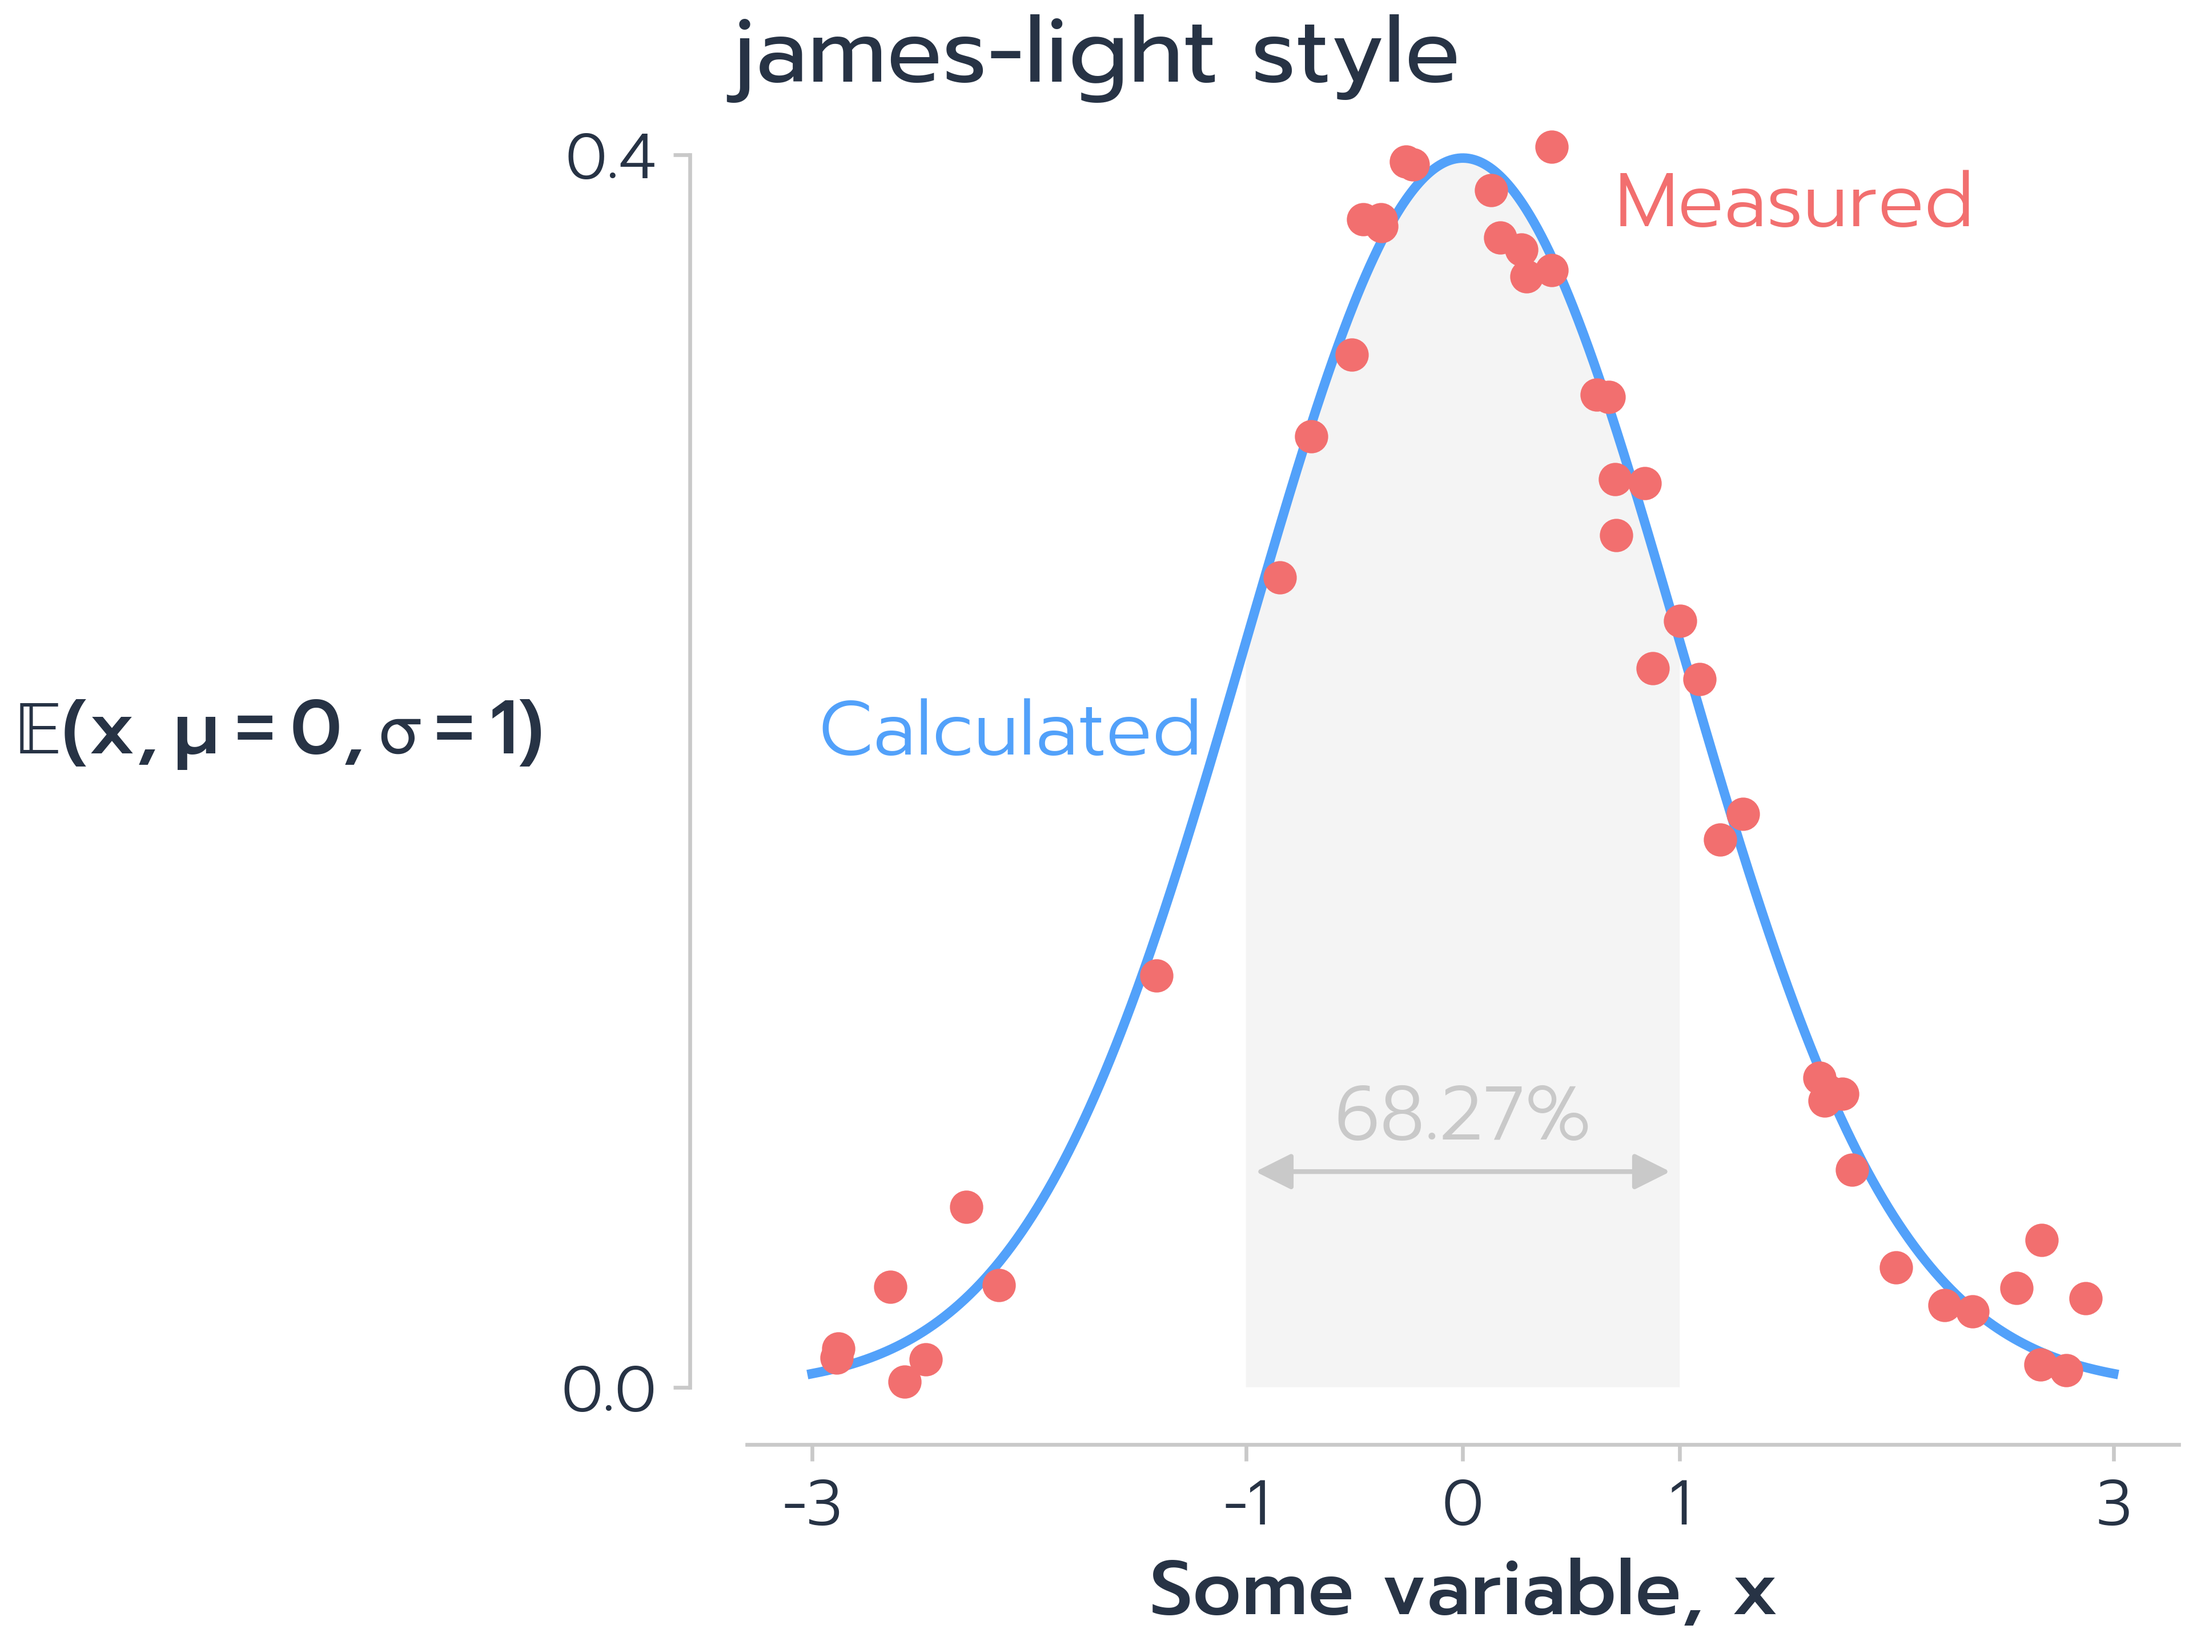
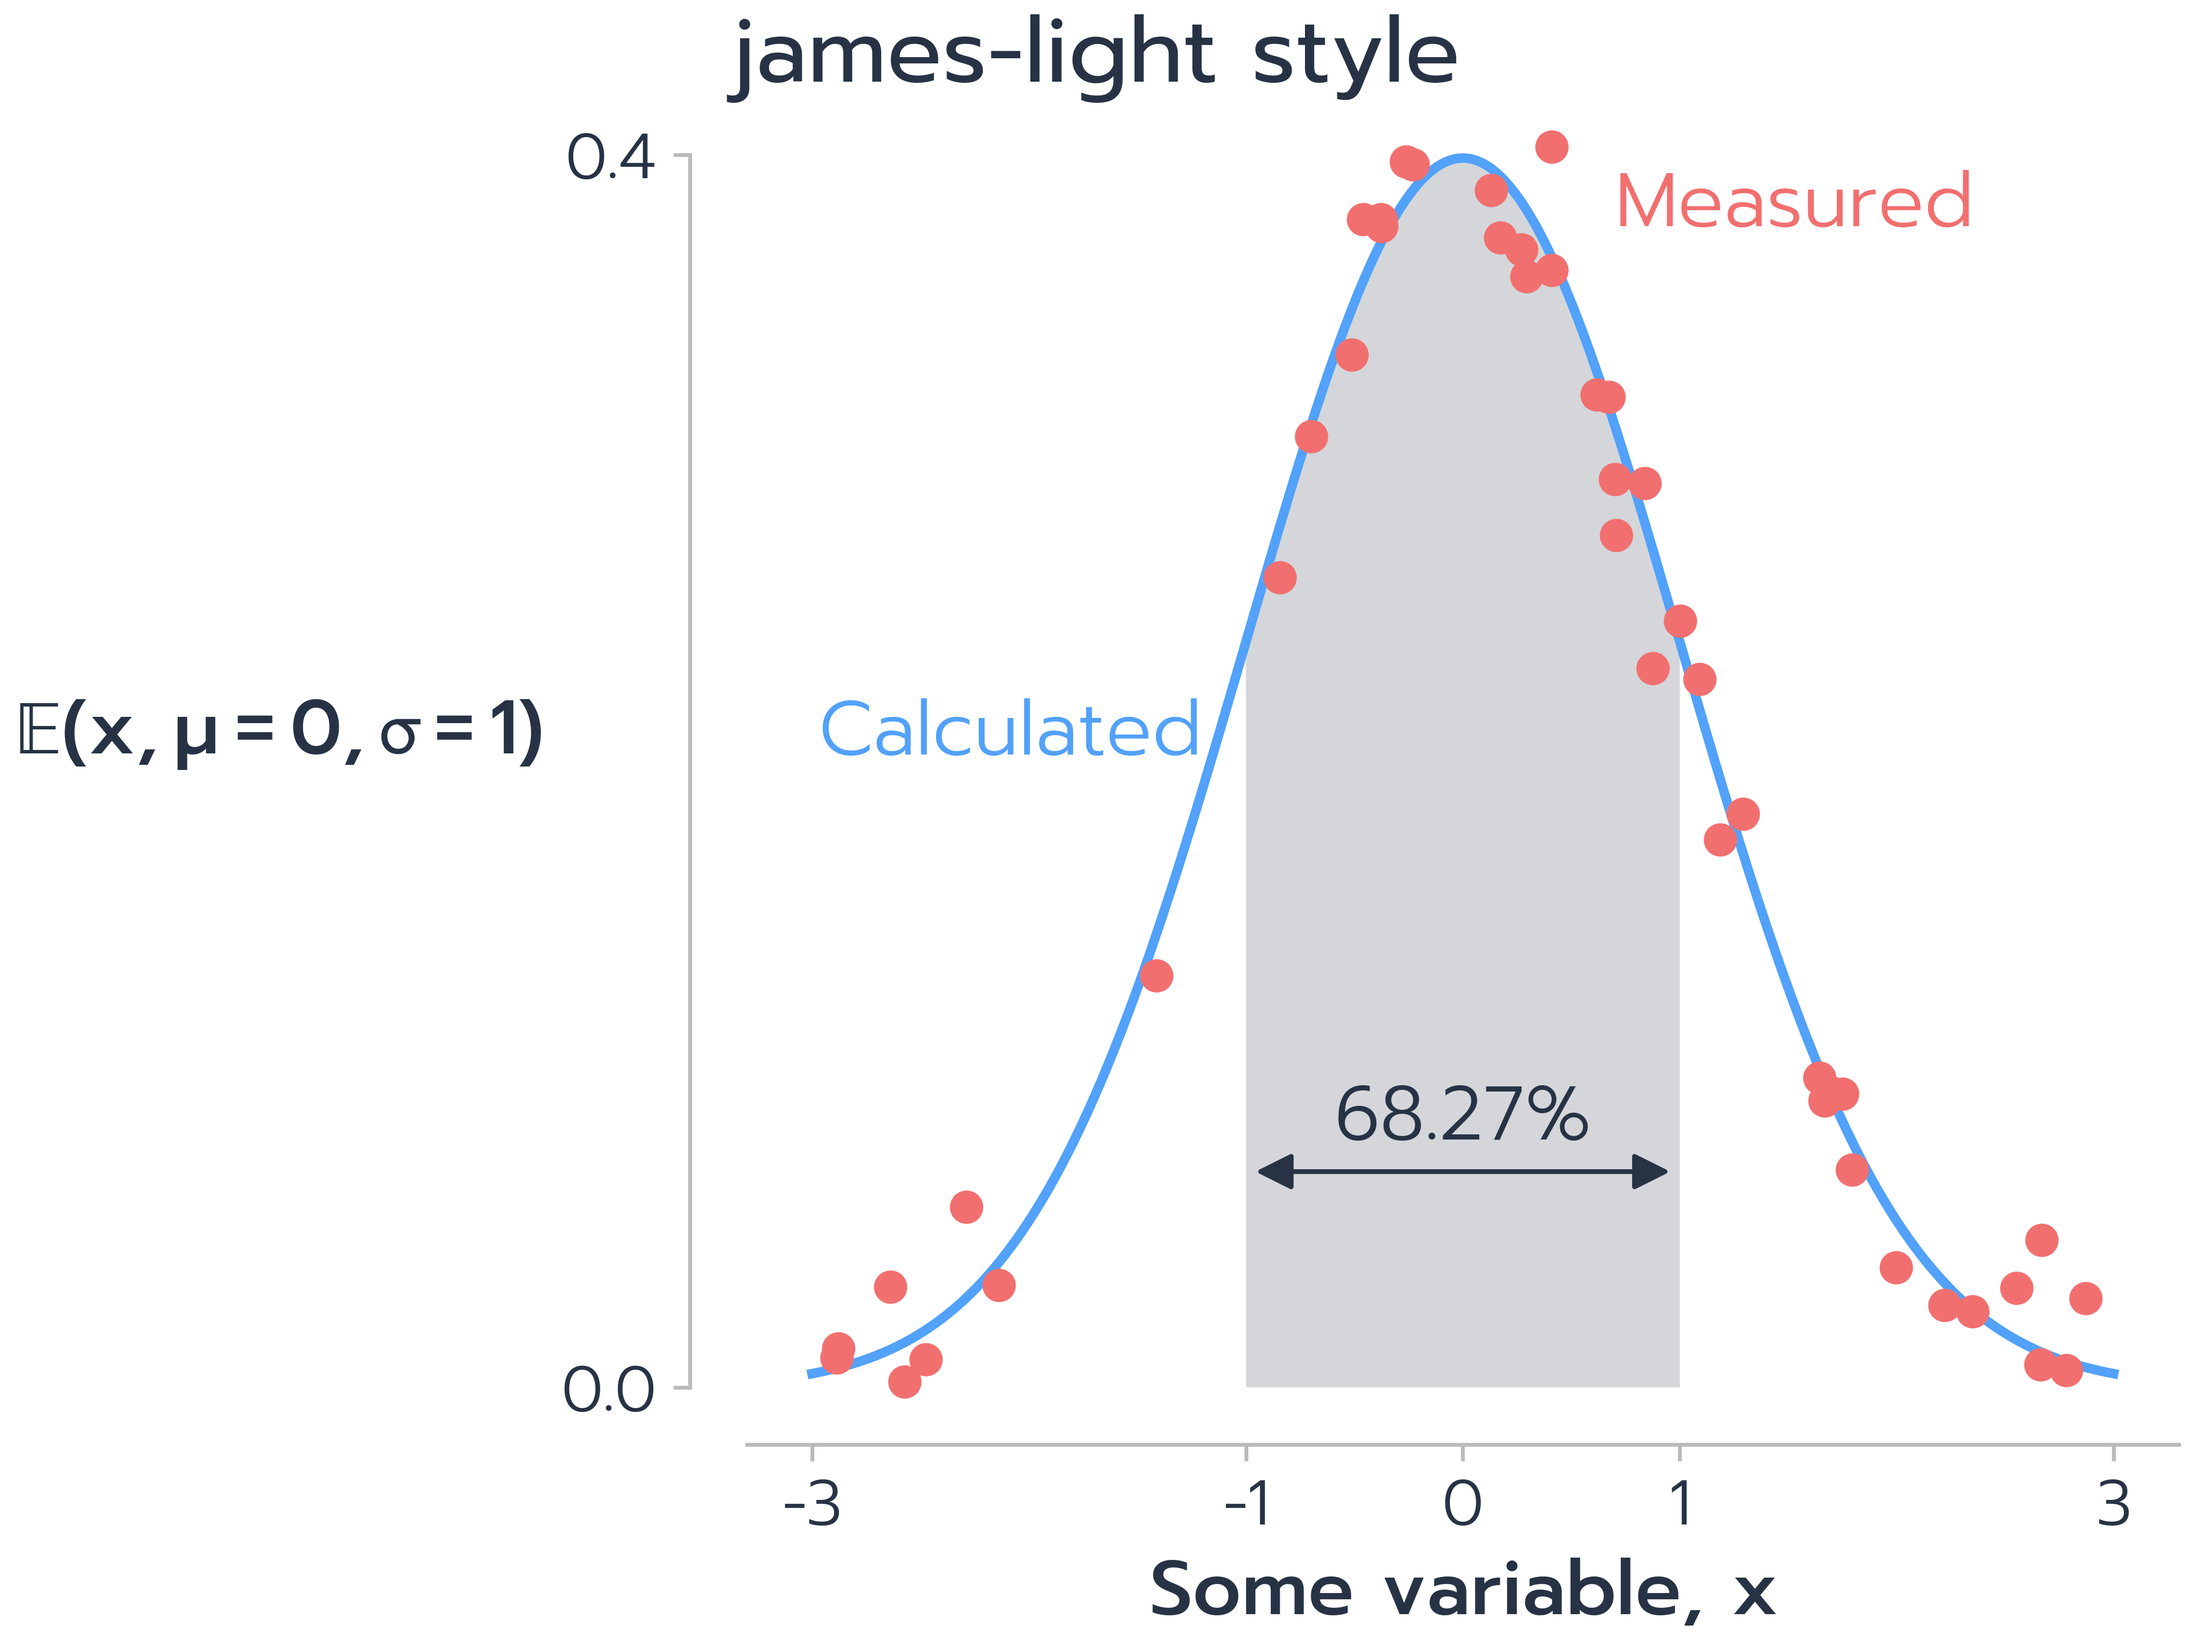
Slightly darkened james spines and made style demo fill between use label color

Changed region(s): [[0.5625, 0.0938, 0.7812, 0.8438]]

diff --git a/examples/plot_style_demo.py b/examples/plot_style_demo.py
@@ -75,7 +75,7 @@ for formatting in ["default"] + niceplots.get_available_styles():
         if formatting == "default":
             fill_color = "gray"
         else:
-            fill_color = colours["Axis"]
+            fill_color = colours["Label"]
 
         ax.fill_between(xLine, yLine, 0, where=np.abs(xLine) <= 1, facecolor=fill_color, alpha=0.2, zorder=0)
         ax.annotate("68.27%", xy=(0, 0.075), ha="center", va="bottom", color=fill_color)
